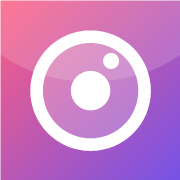
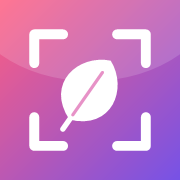
Ребрендинг: Кадр → Фикус (название, иконка, заставка, итоги, уведомления), v1.0

diff --git a/index.html b/index.html
@@ -3,11 +3,11 @@
 <head>
 <meta charset="utf-8">
 <meta name="viewport" content="width=device-width, initial-scale=1, viewport-fit=cover">
-<title>Кадр</title>
+<title>Фикус</title>
 <meta name="apple-mobile-web-app-capable" content="yes">
 <meta name="mobile-web-app-capable" content="yes">
 <meta name="apple-mobile-web-app-status-bar-style" content="black-translucent">
-<meta name="apple-mobile-web-app-title" content="Кадр">
+<meta name="apple-mobile-web-app-title" content="Фикус">
 <meta name="theme-color" content="#f4f1f7" media="(prefers-color-scheme: light)">
 <meta name="theme-color" content="#0b0a10" media="(prefers-color-scheme: dark)">
 <meta name="format-detection" content="telephone=no">
@@ -324,7 +324,7 @@ a{color:inherit;text-decoration:none}
 .onb-body .form,.onb-body .seg{margin:0}
 .onb-body .field input{text-align:left}
 .onb .lens.big{width:84px;height:84px;border-radius:50%;border:7px solid var(--accent);display:grid;place-items:center;margin:6px auto 4px;animation:focus 1.4s cubic-bezier(.3,1.4,.5,1) both}
-.onb .lens.big i{width:26px;height:26px;border-radius:50%;background:var(--accent)}
+.onb .lens.big svg{width:40px;height:40px;color:var(--accent)}
 .onb-dots{display:flex;gap:6px;justify-content:center}
 .onb-dots i{width:7px;height:7px;border-radius:50%;background:var(--fg3);transition:all .3s}
 .onb-dots i.on{width:22px;border-radius:4px;background:var(--accent)}
@@ -398,7 +398,7 @@ a{color:inherit;text-decoration:none}
 .splash.hide{opacity:0;transform:scale(1.04);pointer-events:none}
 .splash .lens{width:84px;height:84px;border-radius:50%;border:7px solid rgba(255,255,255,.95);display:grid;place-items:center;margin-bottom:34px;
   -webkit-backdrop-filter:blur(10px);backdrop-filter:blur(10px);background:rgba(255,255,255,.14);animation:focus 1.6s cubic-bezier(.3,1.4,.5,1) both}
-.splash .lens i{width:26px;height:26px;border-radius:50%;background:#fff}
+.splash .lens svg{width:40px;height:40px;color:#fff}
 .splash p{font:700 clamp(30px,8.5vw,44px)/1.12 var(--display);letter-spacing:-.02em;margin:0;max-width:14ch;text-wrap:balance;animation:rise .9s .25s ease both}
 .splash small{position:absolute;bottom:calc(env(safe-area-inset-bottom,0px) + 34px);font-size:14px;opacity:.7;animation:rise .9s .7s ease both}
 @keyframes focus{from{transform:scale(1.6);opacity:0;filter:blur(8px)}to{transform:none;opacity:1;filter:none}}
@@ -432,9 +432,9 @@ a{color:inherit;text-decoration:none}
 <div class="bg" aria-hidden="true"><i></i><i></i><i></i></div>
 
 <div class="splash" id="splash" role="button" tabindex="0" aria-label="Открыть приложение">
-  <div class="lens"><i></i></div>
+  <div class="lens"><svg viewBox="0 0 24 24" aria-hidden="true"><path d="M5.5 18.5C5.5 10.5 10.5 5.5 18.5 5.5c0 8-5 13-13 13z" fill="currentColor"/><path d="M6.5 17.5l8-8" stroke="rgba(0,0,0,.18)" stroke-width="1.4" stroke-linecap="round"/></svg></div>
   <p id="splashText">Ты всё сможешь</p>
-  <small id="splashSign">Кадр</small>
+  <small id="splashSign">Фикус</small>
 </div>
 
 <main class="app" id="app"></main>
@@ -470,7 +470,7 @@ a{color:inherit;text-decoration:none}
 
 /* ---------- справочники ---------- */
 // название и версия — меняются в одном месте (попадают в итоги месяца и отзывы)
-const APP = {name:'Кадр', tagline:'планер для фотографов', version:'0.9', tg:'gog_sonn'};
+const APP = {name:'Фикус', tagline:'планер для фотографов', version:'1.0', tg:'gog_sonn'};
 
 // [женский|мужской] вариант слова и {name} подставляются по профилю
 const PHRASES = [
@@ -1702,7 +1702,7 @@ async function enablePush(btn){
   btn.disabled = true; btn.textContent = 'Включаю…';
   try {
     const perm = await Notification.requestPermission();
-    if (perm !== 'granted'){ toast('Уведомления запрещены. Разреши их в Настройках iPhone → Уведомления → Кадр'); return; }
+    if (perm !== 'granted'){ toast('Уведомления запрещены. Разреши их в Настройках iPhone → Уведомления → Фикус'); return; }
     const reg = await navigator.serviceWorker.ready;
     const {publicKey} = await fetch(PUSH_FN + '?vapid').then(r => r.json());
     let sub = await reg.pushManager.getSubscription();
@@ -1733,7 +1733,7 @@ async function refreshCloudUi(){
   const st = await pushState();
   pb.innerHTML = st === 'on'
     ? `<div class="btn-row"><button class="btn tinted" data-act="push-test">Проверить</button><button class="btn tinted" data-act="push-on">Обновить</button></div><p class="hint" style="margin:10px 6px 0">Уведомления на этом телефоне включены ✓</p>`
-    : st === 'denied' ? `<p class="hint" style="margin:0 6px">Уведомления запрещены. Разреши их: Настройки iPhone → Уведомления → Кадр.</p>`
+    : st === 'denied' ? `<p class="hint" style="margin:0 6px">Уведомления запрещены. Разреши их: Настройки iPhone → Уведомления → Фикус.</p>`
     : st === 'unsupported' ? `<p class="hint" style="margin:0 6px">${/iPhone|iPad/.test(navigator.userAgent) && !isStandalone() ? 'Чтобы получать напоминания, добавь приложение на экран «Домой» (нужен iOS 16.4 или новее) и открой его оттуда.' : 'Этот браузер не поддерживает уведомления.'}</p>`
     : `<button class="btn primary" data-act="push-on">🔔 Включить уведомления</button>`;
 }
@@ -1947,7 +1947,10 @@ function drawRecap(st, showMoney){
   // подпись приложения — нативная реклама
   const ly = H - 125;
   x.beginPath(); x.arc(150, ly, 52, 0, Math.PI*2); x.fillStyle = 'rgba(255,255,255,.15)'; x.fill(); x.strokeStyle = male ? P.badge : '#fff'; x.lineWidth = 11; x.stroke();
-  x.beginPath(); x.arc(150, ly, 18, 0, Math.PI*2); x.fillStyle = male ? P.badge : '#fff'; x.fill(); x.fillStyle = '#fff';
+  // лист фикуса внутри кружка — знак приложения
+  x.save(); x.translate(150, ly); x.fillStyle = male ? P.badge : '#fff';
+  x.beginPath(); x.moveTo(-20, 20); x.bezierCurveTo(-20, -5, -5, -20, 20, -20); x.bezierCurveTo(20, 5, 5, 20, -20, 20); x.fill();
+  x.restore(); x.fillStyle = '#fff';
   x.font = `800 64px ${F}`; x.fillText(APP.name, 236, ly + 8);
   x.globalAlpha = .75; x.font = `500 36px ${F}`; x.fillText(APP.tagline, 238, ly + 58); x.globalAlpha = 1;
   return cv;
@@ -2143,7 +2146,7 @@ function onboarding(){
   const draw = () => {
     let body = '', btn = 'Дальше', skip = '';
     if (st.step === 0){
-      body = `<div class="lens big"><i></i></div><h2>Привет! Это ${APP.name}</h2><p>Календарь, клиенты и деньги — в одном красивом месте.</p>`;
+      body = `<div class="lens big"><svg viewBox="0 0 24 24" aria-hidden="true"><path d="M5.5 18.5C5.5 10.5 10.5 5.5 18.5 5.5c0 8-5 13-13 13z" fill="currentColor"/><path d="M6.5 17.5l8-8" stroke="rgba(0,0,0,.18)" stroke-width="1.4" stroke-linecap="round"/></svg></div><h2>Привет! Это ${APP.name}</h2><p>Календарь, клиенты и деньги — в одном красивом месте.</p>`;
       btn = 'Начать';
     } else if (st.step === 1){
       body = `<h2>Как тебя зовут?</h2><p>Буду обращаться по имени.</p>
@@ -2407,11 +2410,11 @@ function feedbackSheet(){
 /* ---------- копия данных ---------- */
 async function exportData(){
   const json = JSON.stringify({app:'kadr', version:2, exportedAt:new Date().toISOString(), entries:data.entries, expenses:data.expenses, clients:data.clients, subs:data.subs, goal:data.goal, ach:data.ach}, null, 2);
-  const name = `Кадр-копия-${today()}.json`;
+  const name = `Фикус-копия-${today()}.json`;
   const file = new File([json], name, {type:'application/json'});
   const done = () => { data.lastBackup = Date.now(); persist(); toast('Копия сохранена'); closeSheet(); };
   try {
-    if (navigator.canShare && navigator.canShare({files:[file]})){ await navigator.share({files:[file], title:'Копия данных «Кадр»'}); done(); return; }
+    if (navigator.canShare && navigator.canShare({files:[file]})){ await navigator.share({files:[file], title:'Копия данных «Фикус»'}); done(); return; }
   } catch(e){ if (e.name === 'AbortError') return; }
   const a = document.createElement('a'); a.href = URL.createObjectURL(file); a.download = name;
   document.body.appendChild(a); a.click(); setTimeout(() => { URL.revokeObjectURL(a.href); a.remove(); }, 1500);
@@ -2429,7 +2432,7 @@ $('#importFile').addEventListener('change', async ev => {
       data = normalize(d); data.lastBackup = Date.now();
       persist(); checkAch({silent:true}); closeSheet(); render(); toast('Данные восстановлены');
     };
-  } catch(e){ toast('Это не похоже на копию «Кадра»'); }
+  } catch(e){ toast('Это не похоже на копию «Фикуса»'); }
 });
 
 /* ---------- события ---------- */

diff --git a/sw.js b/sw.js
@@ -1,5 +1,5 @@
 // Офлайн-режим: сначала сеть (чтобы обновления приходили сами), без сети — из кэша.
-const CACHE = 'kadr-v13';
+const CACHE = 'kadr-v14';
 const ASSETS = ['./', './index.html', './manifest.webmanifest', './apple-touch-icon.png', './icon-192.png', './icon-512.png'];
 
 self.addEventListener('install', e => {
@@ -29,7 +29,7 @@ self.addEventListener('fetch', e => {
 self.addEventListener('push', e => {
   let d = {};
   try { d = e.data ? e.data.json() : {}; } catch (err) { d = { body: e.data && e.data.text() }; }
-  e.waitUntil(self.registration.showNotification(d.title || 'Кадр', {
+  e.waitUntil(self.registration.showNotification(d.title || 'Фикус', {
     body: d.body || '',
     tag: d.tag,
     icon: 'icon-192.png',
